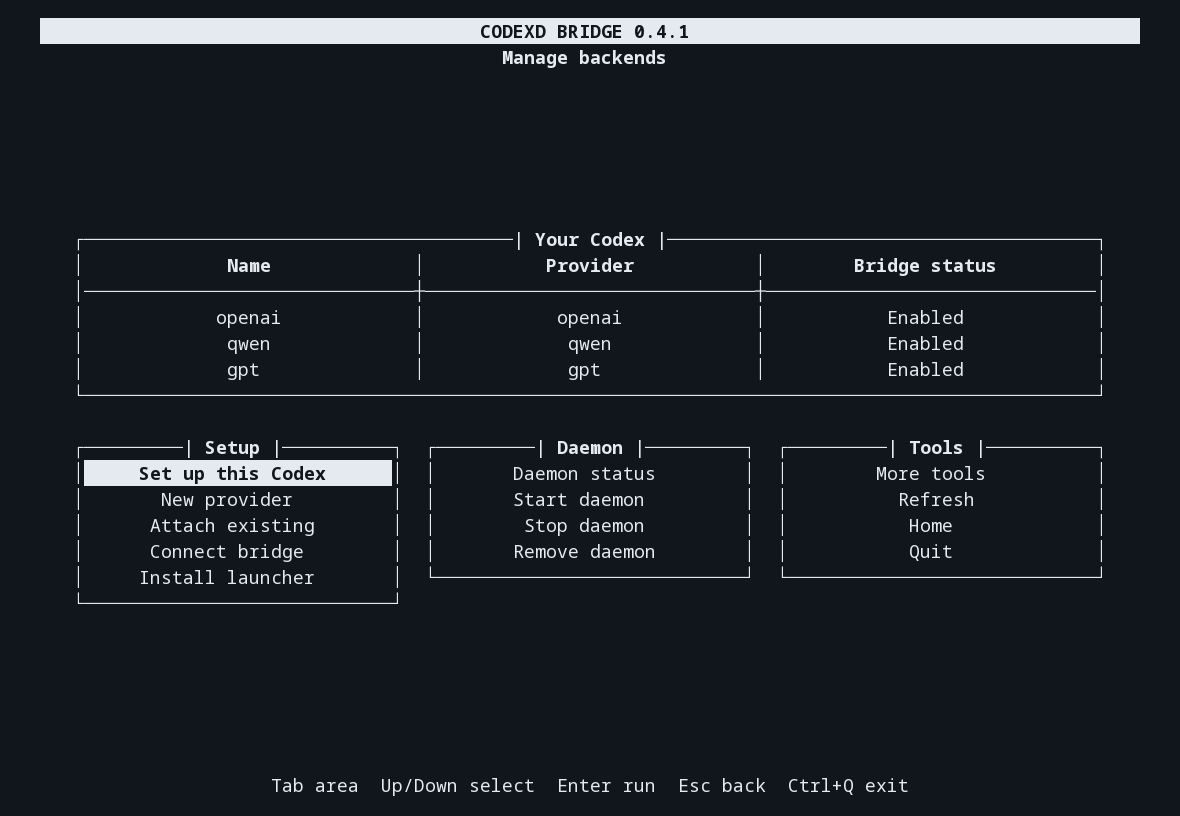
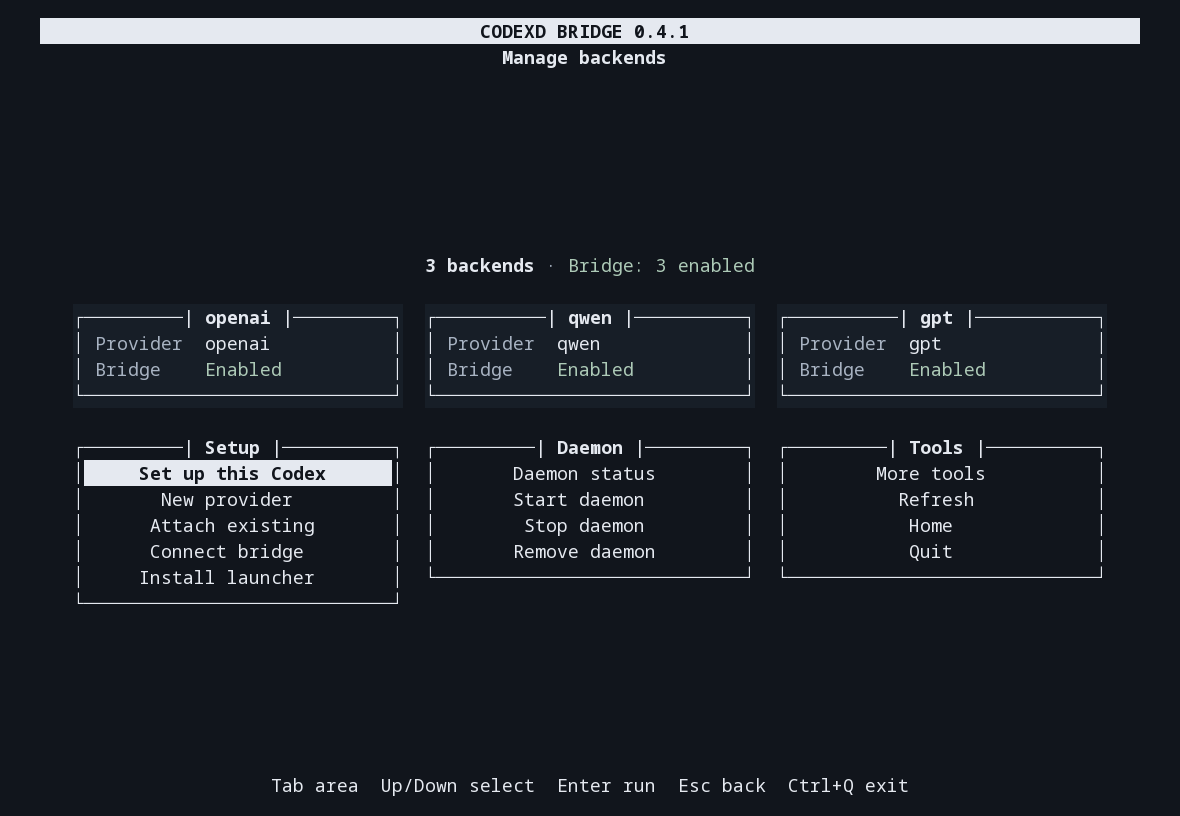
Group backend identity and bridge state into a readable overview

diff --git a/src/codexd_bridge/tui.py b/src/codexd_bridge/tui.py
@@ -58,6 +58,10 @@ STYLE = Style.from_dict(
         "radio-selected": "reverse",
         "error": "ansired",
         "card.focused": "reverse",
+        "overview-panel": "bg:#171e27",
+        "overview.field": "#a8b3c2",
+        "overview.enabled": "#adcab7",
+        "overview.disabled": "#d4b58d",
     }
 )
 
@@ -483,47 +487,59 @@ class BridgeUI:
         return DynamicContainer(self.overview_content)
 
     def overview_content(self):
-        width = self.content_width() - 2
-
-        def cell(value, columns):
+        def shorten(value, columns):
             text = clean(value).replace("\n", " ").replace("\t", " ")
-            if get_cwidth(text) > columns - 2:
-                while text and get_cwidth(text) > columns - 3:
+            if get_cwidth(text) > columns:
+                while text and get_cwidth(text) > columns - 1:
                     text = text[:-1]
                 text += "…"
-            padding = columns - get_cwidth(text)
-            return " " * (padding // 2) + text + " " * (padding - padding // 2)
+            return text
 
-        if self.app.output.get_size().rows < 26:
-            columns = (width - 1) // 2
-            summary = (cell(f"Configured: {len(self.routes)}", columns) + "│"
-                       + cell(f"Bridge enabled: {sum(b.enabled for b in self.routes.values())}",
-                              width - columns - 1)
-                       if self.routes else "No Codex added. Choose Manage backends.")
-            return Frame(Label(summary, align=WindowAlign.CENTER), title="Your Codex", height=3)
+        available = max(3, self.app.output.get_size().rows - 15)
         if not self.routes:
-            return Frame(Label("No Codex added yet.\nChoose Manage backends to get started.",
-                               align=WindowAlign.CENTER),
-                         title="Your Codex", height=4)
-        columns = [(width - 2) // 3] * 2
-        columns.append(width - 2 - sum(columns))
+            message = ("No Codex added yet.\nChoose Manage backends to get started."
+                       if available > 3 else "No Codex added. Choose Manage backends.")
+            return Frame(Label(message, align=WindowAlign.CENTER),
+                         title="Configured backends", height=min(available, 4), style="class:overview-panel")
 
-        def row(values):
-            return "│".join(cell(value, size) for value, size in zip(values, columns))
-
-        lines = [row((b.name, b.model_provider, "Enabled" if b.enabled else "Disabled"))
-                 for b in list(self.routes.values())[:5]]
-        content = [
-            Label(row(("Name", "Provider", "Bridge status")), style="class:title"),
-            Label("┼".join("─" * size for size in columns)),
-            Label("\n".join(lines)),
+        count = len(self.routes)
+        enabled = sum(b.enabled for b in self.routes.values())
+        summary = [
+            ("class:title", f"{count} backends"),
+            ("class:overview.field", " · "),
+            ("class:overview.enabled", f"Bridge: {enabled} enabled"),
         ]
-        if len(self.routes) > 5:
-            content += [Label("─" * width),
-                        Label(f"{len(self.routes) - 5} more · choose an action to view all",
-                              align=WindowAlign.CENTER)]
-        return Frame(HSplit(content), title="Your Codex",
-                     height=len(lines) + 4 + (2 if len(self.routes) > 5 else 0))
+        if enabled < count:
+            summary += [("class:overview.field", " · "),
+                        ("class:overview.disabled", f"{count - enabled} disabled")]
+        columns = max(1, min(3, count, (self.content_width() + 2) // 26))
+        for rows in (2, 1):
+            visible = min(count, rows * columns)
+            height = 5 * ((visible + columns - 1) // columns) + 1 + (visible < count)
+            if height <= available:
+                break
+        else:
+            return Frame(Label(summary, align=WindowAlign.CENTER),
+                         title="Configured backends", height=3, style="class:overview-panel")
+
+        width = min(32, (self.content_width() - 2 * (columns - 1)) // columns)
+        entries = []
+        for backend in list(self.routes.values())[:visible]:
+            status = "Enabled" if backend.enabled else "Disabled"
+            status_style = "class:overview.enabled" if backend.enabled else "class:overview.disabled"
+            entries.append(Frame(HSplit([
+                Label([("class:overview.field", " Provider  "),
+                       ("", shorten(backend.model_provider, width - 14))]),
+                Label([("class:overview.field", " Bridge    "), (status_style, status)]),
+            ], width=Dimension(min=20)), title=shorten(backend.name, width - 8),
+                width=width, height=4, style="class:overview-panel"))
+        content = [Label(summary, align=WindowAlign.CENTER), Window(height=1),
+                   HSplit([VSplit(entries[i:i + columns], padding=2, align=HorizontalAlign.CENTER)
+                           for i in range(0, len(entries), columns)], padding=1)]
+        if visible < count:
+            content.append(Label(f"+ {count - visible} more configured", align=WindowAlign.CENTER,
+                                 style="class:overview.field"))
+        return HSplit(content, height=height)
 
     def home(self):
         self.menu = self.home

diff --git a/tests/test_tui.py b/tests/test_tui.py
@@ -459,6 +459,30 @@ class TerminalTests(unittest.IsolatedAsyncioTestCase):
                 self.assertAlmostEqual((lines[top].index("┌") + lines[top].rindex("┐")) / 2,
                                        (columns - 1) / 2, delta=1)
 
+    async def test_backend_overview_groups_identity_and_keeps_counts_readable(self):
+        routes = {
+            "review": Backend("review", self.root / "review", "qwen", enabled=False),
+            "draft": Backend("draft", self.root / "draft", "openai"),
+        }
+        self.ui.routes = routes
+        self.ui.app.invalidate()
+        await asyncio.sleep(.05)
+        lines = self.rendered().splitlines()
+        for name, provider, status in (("review", "qwen", "Disabled"),
+                                       ("draft", "openai", "Enabled")):
+            y = next(i for i, line in enumerate(lines) if f" {name} " in line)
+            x = lines[y].index(f" {name} ")
+            left, right = lines[y].rindex("┌", 0, x), lines[y].index("┐", x)
+            self.assertIn(provider, lines[y + 1][left:right])
+            self.assertIn(status, lines[y + 2][left:right])
+        self.output.size = Size(rows=18, columns=60)
+        self.ui.routes = {str(i): Backend(str(i), self.root / str(i), "openai", enabled=bool(i % 2))
+                          for i in range(12)}
+        self.ui.app.invalidate()
+        await asyncio.sleep(.05)
+        self.assertIn("12 backends · Bridge: 6 enabled · 6 disabled", self.rendered())
+        self.assertIn("Manage backends", self.rendered())
+
     async def test_create_daemon_configuration_and_switch_registry_from_tui(self):
         self.ui.more_tools()
         with patch("codexd_bridge.provisioning.create_daemon",

diff --git a/README.zh-CN.md b/README.zh-CN.md
@@ -73,7 +73,7 @@ codexd-bridge
 - **Use backend（使用后端）**：打开 Codex、浏览模型和管理会话。
 - **Manage backends（管理后端）**：添加配置、接入桥接工具、管理服务和卸载。
 
-顶部字符表格列出已配置的 Codex 名称、供应商和桥接状态。操作需要目标时，如果只有一套配置则直接使用；有多套时再选择，按回车进入。
+顶部为只读概览：每个后端的名称、供应商和桥接状态放在同一信息块中，上方显示整体统计。窗口较矮时显示统计；空间不足时标明未展示的后端数量。操作需要目标时，如果只有一套配置则直接使用；有多套时再选择，按回车进入。
 **Daemon status** 用于检查对应 Codex 服务是否运行。关闭管理界面后，已启动的服务仍可继续运行。
 
 ![实际运行的管理页面：配置、后台服务和工具分列显示](docs/images/tui-manager.png)

diff --git a/README.md b/README.md
@@ -79,7 +79,8 @@ The home screen has two cards:
 - **Use backend:** open Codex, browse models and manage sessions.
 - **Manage backends:** add configurations, connect the bridge, manage services and uninstall.
 
-The character table shows each configured Codex name, provider and bridge status. When an operation needs a target,
+The read-only overview groups each backend's name, provider and bridge status in one block, with totals above.
+Short terminals show the totals; additional backends are counted below when space is limited. When an operation needs a target,
 one configured environment is used directly; with several, choose one and press `Enter`.
 **Daemon status** checks whether its Codex service is running. Closing the manager leaves running services active.
 
